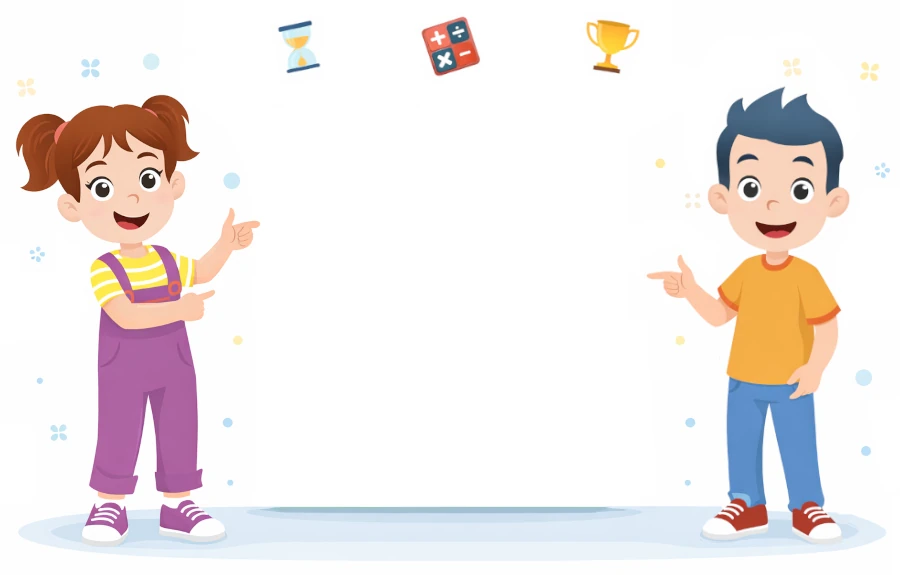
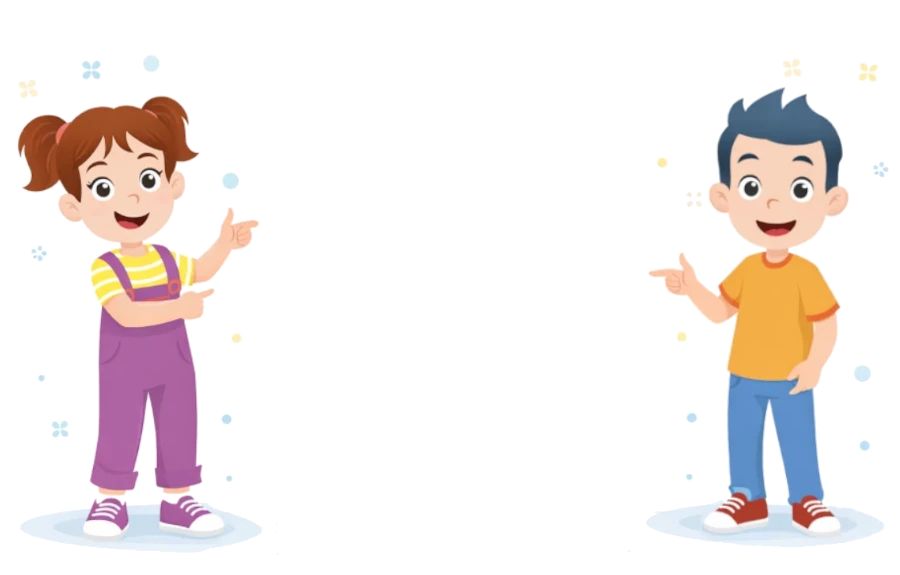
addind landing pages "operations" and modifing bg

diff --git a/app/operations/index.html b/app/operations/index.html
@@ -1,0 +1,280 @@
+<!DOCTYPE html>
+<html lang="ar" dir="rtl">
+<head>
+    <meta charset="UTF-8">
+    <meta name="viewport" content="width=device-width, initial-scale=1.0">
+    <title>تحدي الرياضيات - الواجهة الرئيسية</title>
+    <!-- الخط الطفولي -->
+    <link href="https://fonts.googleapis.com/css2?family=Baloo+Bhaijaan+2:wght@400;600;700;800&display=swap" rel="stylesheet">
+    <style>
+        :root {
+            --bg-page: #e0f2fe; 
+            --card-bg: #ffffff;
+            --text-main: #1e293b;
+            --text-light: #64748b;
+        }
+
+        * { margin: 0; padding: 0; box-sizing: border-box; }
+
+        body {
+            font-family: 'Baloo Bhaijaan 2', cursive, sans-serif;
+            background-color: var(--bg-page);
+            background-image: radial-gradient(#bae6fd 2px, transparent 2px);
+            background-size: 30px 30px; 
+            color: var(--text-main);
+            display: flex;
+            justify-content: center;
+            align-items: center;
+            min-height: 100vh;
+            padding: 20px;
+            overflow-x: hidden;
+        }
+
+        /* --- شاشة البداية (Splash Screen) --- */
+        #splashScreen {
+            position: fixed;
+            top: 0;
+            left: 0;
+            width: 100%;
+            height: 100%;
+            background-color: #f0f9ff;
+            display: flex;
+            justify-content: center;
+            align-items: center;
+            z-index: 9999;
+            transition: opacity 0.5s ease-out, visibility 0.5s;
+        }
+
+        #splashScreen img {
+            max-width: 90%;
+            max-height: 80vh;
+            border-radius: 30px;
+            box-shadow: 0 10px 30px rgba(0,0,0,0.15);
+            animation: pulse 1.5s infinite alternate;
+        }
+
+        @keyframes pulse {
+            0% { transform: scale(0.98); }
+            100% { transform: scale(1.02); }
+        }
+
+        /* --- الحاوية الرئيسية --- */
+        .main-container {
+            background-color: var(--card-bg);
+            /* دمج الصورة bg.webp كخلفية للحاوية */
+            background-image: url('bg.webp');
+            background-size: cover;
+            background-position: center;
+            background-repeat: no-repeat;
+            
+            border-radius: 30px;
+            box-shadow: 0 15px 35px rgba(0,0,0,0.1), 0 10px 0px #cbd5e1;
+            border: 4px solid #fff;
+            width: 100%;
+            max-width: 900px; /* تم توسيع الحاوية لتظهر شخصيات الخلفية بوضوح */
+            min-height: 550px;
+            padding: 40px 20px 50px;
+            text-align: center;
+            opacity: 0;
+            transform: translateY(40px) scale(0.9);
+            display: none; /* مخفية في البداية */
+            position: relative;
+        }
+
+        .main-container.show {
+            display: block;
+            animation: slideUp 0.6s cubic-bezier(0.34, 1.56, 0.64, 1) forwards;
+        }
+
+        @keyframes slideUp {
+            to { opacity: 1; transform: translateY(0) scale(1); }
+        }
+
+        /* حاوية النصوص */
+        .header-text {
+            position: relative;
+            z-index: 5;
+            margin-bottom: 30px;
+        }
+
+        h1 {
+            font-size: 3.5rem;
+            font-weight: 800;
+            color: #0ea5e9; /* لون أزرق مطابق للصورة */
+            text-shadow: 2px 2px 0px #fff, 0px 4px 0px #bae6fd;
+            margin-bottom: 5px;
+            line-height: 1.2;
+        }
+
+        p.subtitle {
+            font-size: 1.3rem;
+            color: var(--text-light);
+            font-weight: 600;
+            margin-bottom: 10px;
+        }
+
+        /* --- شبكة الألعاب --- */
+        .games-grid {
+            display: grid;
+            grid-template-columns: 1fr 1fr; /* عمودين */
+            gap: 15px;
+            width: 100%;
+            max-width: 480px; /* تحديد العرض لتبقى الأزرار في المنتصف بين الشخصيات */
+            margin: 0 auto;
+            position: relative;
+            z-index: 5;
+        }
+
+        .game-card {
+            display: flex;
+            flex-direction: column;
+            align-items: center;
+            justify-content: center;
+            text-decoration: none;
+            padding: 25px 15px;
+            border-radius: 24px;
+            color: white;
+            border: 3px solid rgba(255,255,255,0.3);
+            transition: all 0.15s;
+        }
+
+        .game-card:active {
+            transform: translateY(8px);
+            box-shadow: 0 0 0 transparent !important;
+        }
+
+        .game-card .icon {
+            font-size: 4.5rem;
+            font-weight: 800;
+            line-height: 1;
+            margin-bottom: 5px;
+            font-family: sans-serif;
+            text-shadow: 2px 3px 0px rgba(0,0,0,0.15);
+        }
+
+        .game-card h2 {
+            font-size: 1.6rem;
+            font-weight: 800;
+            margin: 0;
+            text-shadow: 1px 2px 0px rgba(0,0,0,0.15);
+        }
+
+        /* تخصيص الألوان حسب الصورة المرفقة */
+        
+        /* 1. الطرح (أحمر) - أعلى اليمين */
+        .card-sub { background: #ef4444; box-shadow: 0 8px 0 #dc2626; }
+        .card-sub:hover { background: #f87171; border-color: #fecaca;}
+
+        /* 2. الجمع (أخضر) - أعلى اليسار */
+        .card-add { background: #22c55e; box-shadow: 0 8px 0 #16a34a; }
+        .card-add:hover { background: #4ade80; border-color: #bbf7d0;}
+
+        /* 3. القسمة (أزرق) - أسفل اليمين */
+        .card-div { background: #0ea5e9; box-shadow: 0 8px 0 #0284c7; }
+        .card-div:hover { background: #38bdf8; border-color: #bae6fd;}
+
+        /* 4. الضرب (بنفسجي) - أسفل اليسار */
+        .card-mul { background: #a855f7; box-shadow: 0 8px 0 #9333ea; }
+        .card-mul:hover { background: #c084fc; border-color: #e9d5ff;}
+
+        /* 5. المختلط (برتقالي) - يمتد على العمودين بالأسفل */
+        .card-mix { 
+            background: #f59e0b; 
+            box-shadow: 0 8px 0 #d97706; 
+            grid-column: 1 / -1; /* يأخذ العرض بالكامل */
+            flex-direction: row; /* النص والأيقونة بجانب بعض */
+            gap: 15px;
+            padding: 20px;
+        }
+        .card-mix:hover { background: #fbbf24; border-color: #fef3c7;}
+        .card-mix .icon { margin-bottom: 0; font-size: 3.5rem; }
+
+        /* التجاوب مع شاشات الهواتف الصغيرة جداً */
+        @media (max-width: 480px) {
+            .games-grid { gap: 10px; max-width: 100%; padding: 0 10px; }
+            .game-card { padding: 15px 10px; }
+            .game-card .icon { font-size: 3rem; }
+            .game-card h2 { font-size: 1.2rem; }
+            h1 { font-size: 2.5rem; }
+            .card-mix .icon { font-size: 2.5rem; }
+        }
+    </style>
+</head>
+<body>
+
+    <!-- شاشة البداية (تظهر لمدة 3 ثواني) -->
+    <div id="splashScreen">
+        <!-- تأكد من وجود صورة splash.webp في نفس المجلد -->
+        <img src="splash.webp" alt="مرحباً بكم في تحدي الرياضيات">
+    </div>
+
+    <!-- المحتوى الرئيسي -->
+    <div id="mainContent" class="main-container">
+        
+        <div class="header-text">
+            <h1>تحدي الرياضيات</h1>
+            <p class="subtitle">اختر التحدي الذي تريد أن تلعبه اليوم!</p>
+        </div>
+        
+        <!-- شبكة الأزرار -->
+        <div class="games-grid">
+            
+            <!-- الصف الأول -->
+            <!-- 1. تحدي الطرح (أحمر يمين) -->
+            <a href="https://sanabilmedia.com/app/soustraction" class="game-card card-sub">
+                <div class="icon">-</div>
+                <h2>تحدي الطرح</h2>
+            </a>
+
+            <!-- 2. تحدي الجمع (أخضر يسار) -->
+            <a href="https://sanabilmedia.com/app/addition" class="game-card card-add">
+                <div class="icon">+</div>
+                <h2>تحدي الجمع</h2>
+            </a>
+
+            <!-- الصف الثاني -->
+            <!-- 3. تحدي القسمة (أزرق يمين) -->
+            <a href="https://sanabilmedia.com/app/division" class="game-card card-div">
+                <div class="icon">÷</div>
+                <h2>تحدي القسمة</h2>
+            </a>
+
+            <!-- 4. تحدي الضرب (بنفسجي يسار) -->
+            <a href="https://sanabilmedia.com/app/multiplication" class="game-card card-mul">
+                <div class="icon">×</div>
+                <h2>تحدي الضرب</h2>
+            </a>
+
+            <!-- الصف الثالث (يمتد بالكامل) -->
+            <!-- 5. التحدي المختلط (برتقالي) -->
+            <a href="https://sanabilmedia.com/app/mix" class="game-card card-mix">
+                <h2>التحدي المختلط (النهائي)</h2>
+                <div class="icon">🎲</div>
+            </a>
+
+        </div>
+    </div>
+
+    <script>
+        // إعداد مؤقت شاشة البداية
+        window.addEventListener('load', () => {
+            const splashScreen = document.getElementById('splashScreen');
+            const mainContent = document.getElementById('mainContent');
+
+            // الانتظار لمدة 3 ثوانٍ (3000 ملي ثانية)
+            setTimeout(() => {
+                // إضافة تأثير التلاشي
+                splashScreen.style.opacity = '0';
+                splashScreen.style.visibility = 'hidden';
+                
+                // بعد انتهاء التلاشي نعرض المحتوى الرئيسي
+                setTimeout(() => {
+                    splashScreen.style.display = 'none';
+                    mainContent.classList.add('show');
+                }, 500); 
+
+            }, 3000);
+        });
+    </script>
+</body>
+</html>
